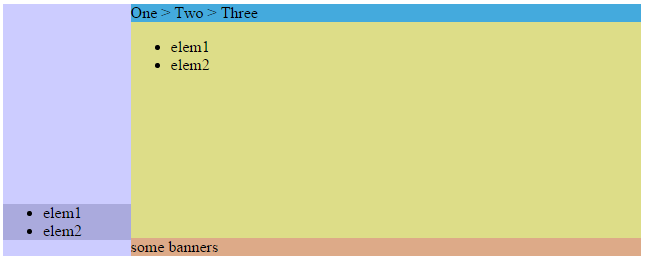
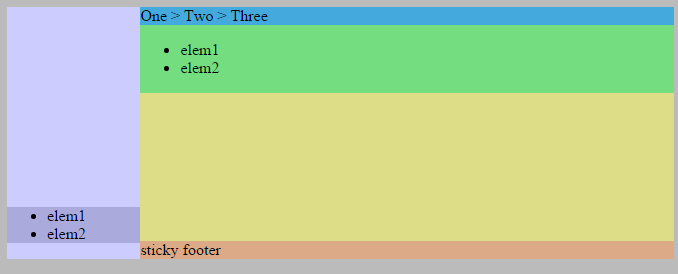
more semantic

diff --git a/index.html b/index.html
@@ -2,77 +2,79 @@
 
 <html>
 <head>
-	<meta charset="utf-8">
-	<style>
+    <meta charset="utf-8">
+    <style>
 
-		#content {
-			display: flex;
-		}
+        body {
+            display: flex;
+        }
 
-		#content #left {
-			flex: 0 0 20%;
-		}
+        #sidebar {
+            flex: 0 0 20%;
+        }
 
-		#content #right {
-			flex: 0 0 80%;
+        #content {
+            flex: 0 0 80%;
 
-			display: flex;
-			flex-direction: column;
-		}
+            display: flex;
+            flex-direction: column;
+        }
 
-		#content #right .boxOfferWrap {
-			margin-top: auto;
-		}
+        footer {
+            margin-top: auto;
+        }
 
-/* Colors */
-		#content {
-			background-color: #eee;
-		}
+        /* Colors */
+        body {
+            background-color: #bbb;
+        }
 
-		#content #left {
-			background: #ccccff;
-		}
+        #sidebar {
+            background: #ccccff;
+        }
 
-		#content #left #menu {
-			margin-top: 200px;
-			background-color: #aad;
-		}
+        #sidebar .menu {
+            margin-top: 200px;
+            background-color: #aad;
+        }
 
-		#content #right {
-			background-color: #dddd88;
-		}
+        #content {
+            background-color: #dddd88;
+        }
 
-		#content #right #breadcrumbs {
-			background-color: #4ad;
-		}
+        #content .breadcrumbs {
+            background-color: #4ad;
+        }
 
-		#content #right .boxOfferWrap {
-			background-color: #ddaa88;
-		}
-	</style>
+        footer {
+            background-color: #ddaa88;
+        }
+
+        article {
+            background-color: #74dd80;
+        }
+    </style>
 </head>
 <body>
-<div id="content">
-	<div id="left">
-		<ul id="menu">
-			<li>elem1
-			<li>elem2
-		</ul>
-	</div>
-	<div id="right">
-		<div id="breadcrumbs">
-			One > Two > Three
-		</div>
-		<div id="list">
-			<ul>
-				<li>elem1
-				<li>elem2
-			</ul>
-		</div>
-		<div class="boxOfferWrap">
-			sticky footer
-		</div>
-	</div>
-</div>
+<section id="sidebar">
+    <ul class="menu">
+        <li>elem1
+        <li>elem2
+    </ul>
+</section>
+<section id="content">
+    <nav class="breadcrumbs">
+        One > Two > Three
+    </nav>
+    <article id="list">
+        <ul>
+            <li>elem1
+            <li>elem2
+        </ul>
+    </article>
+    <footer>
+        sticky footer
+    </footer>
+</section>
 </body>
 </html>
